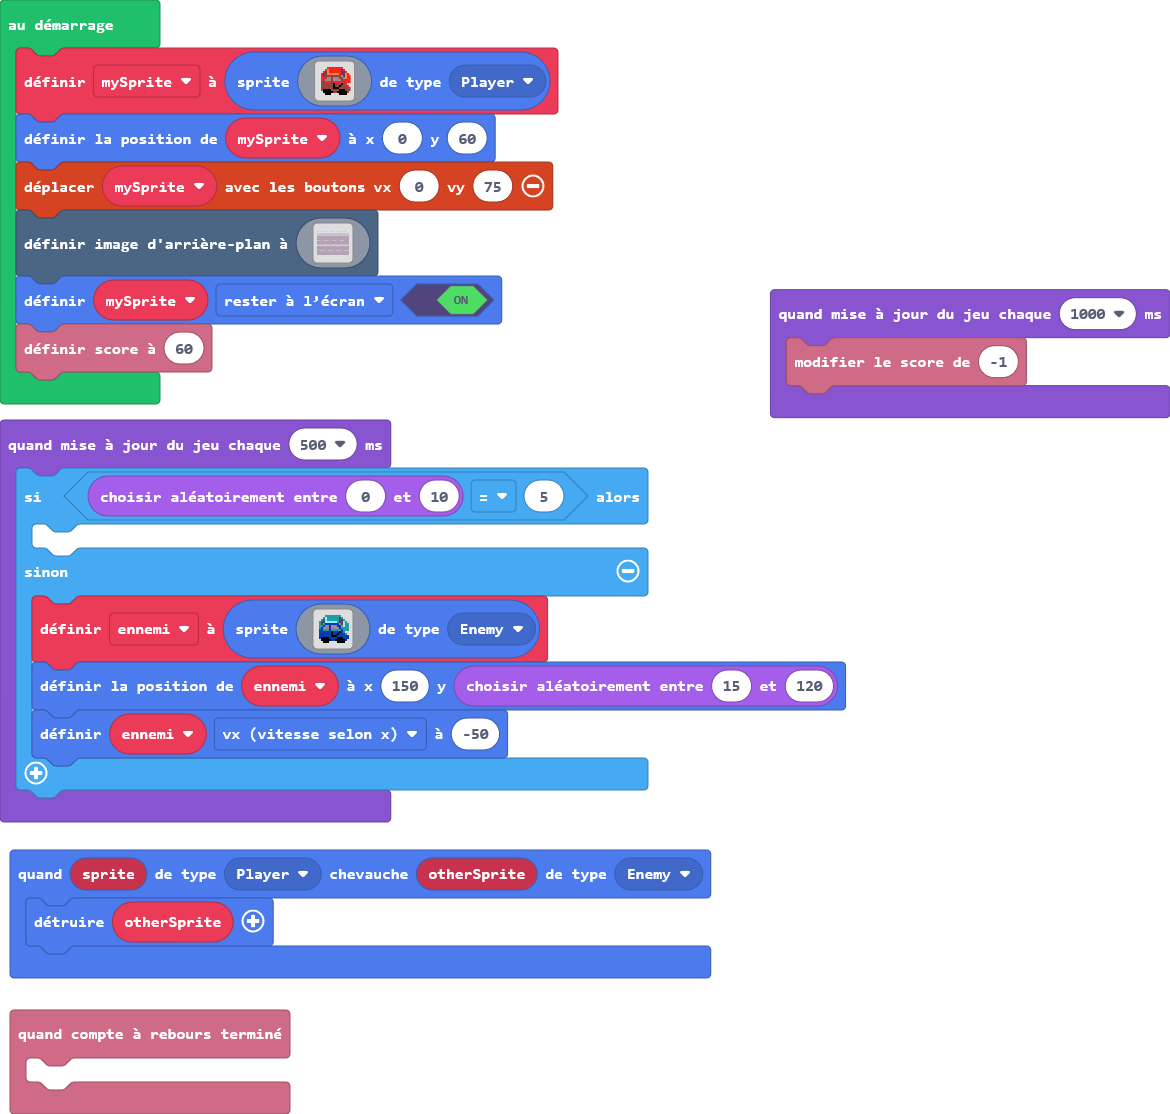
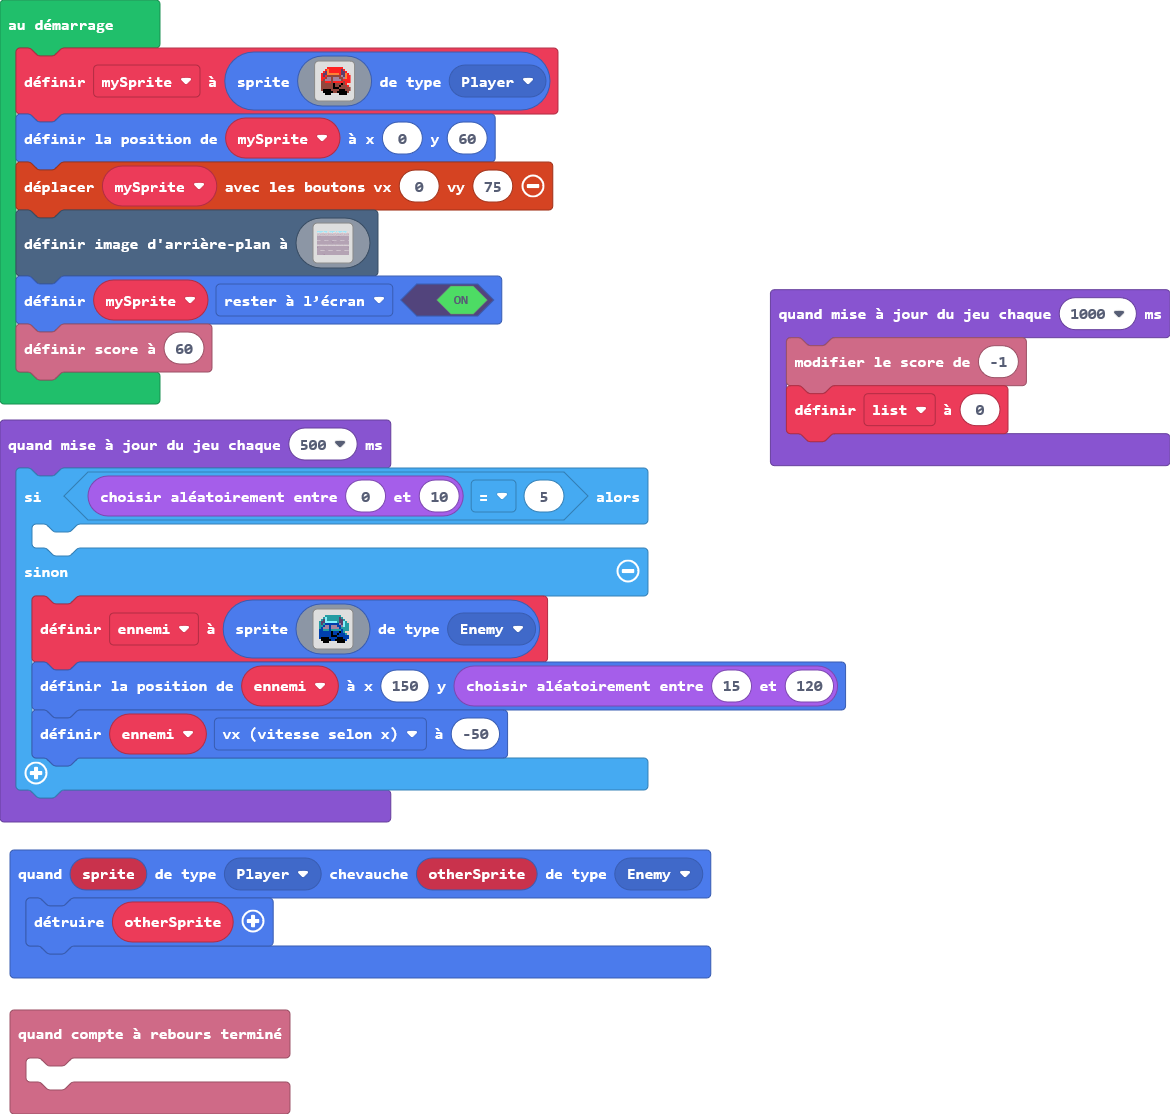
Mise à jour main.blocks, main.ts

Changed region(s): [[0.6462, 0.3357, 1.0, 0.4273]]

diff --git a/main.ts b/main.ts
@@ -5,6 +5,7 @@ sprites.onOverlap(SpriteKind.Player, SpriteKind.Enemy, function (sprite, otherSp
     otherSprite.destroy()
 })
 let ennemi: Sprite = null
+let list = 0
 let mySprite = sprites.create(img`
     . . . . . . . . . . . . . . . . 
     . . . . 2 2 2 2 2 2 2 2 . . . . 
@@ -151,6 +152,7 @@ mySprite.setFlag(SpriteFlag.StayInScreen, true)
 info.setScore(60)
 game.onUpdateInterval(1000, function () {
     info.changeScoreBy(-1)
+    list = 0
 })
 game.onUpdateInterval(500, function () {
     if (randint(0, 10) == 5) {
